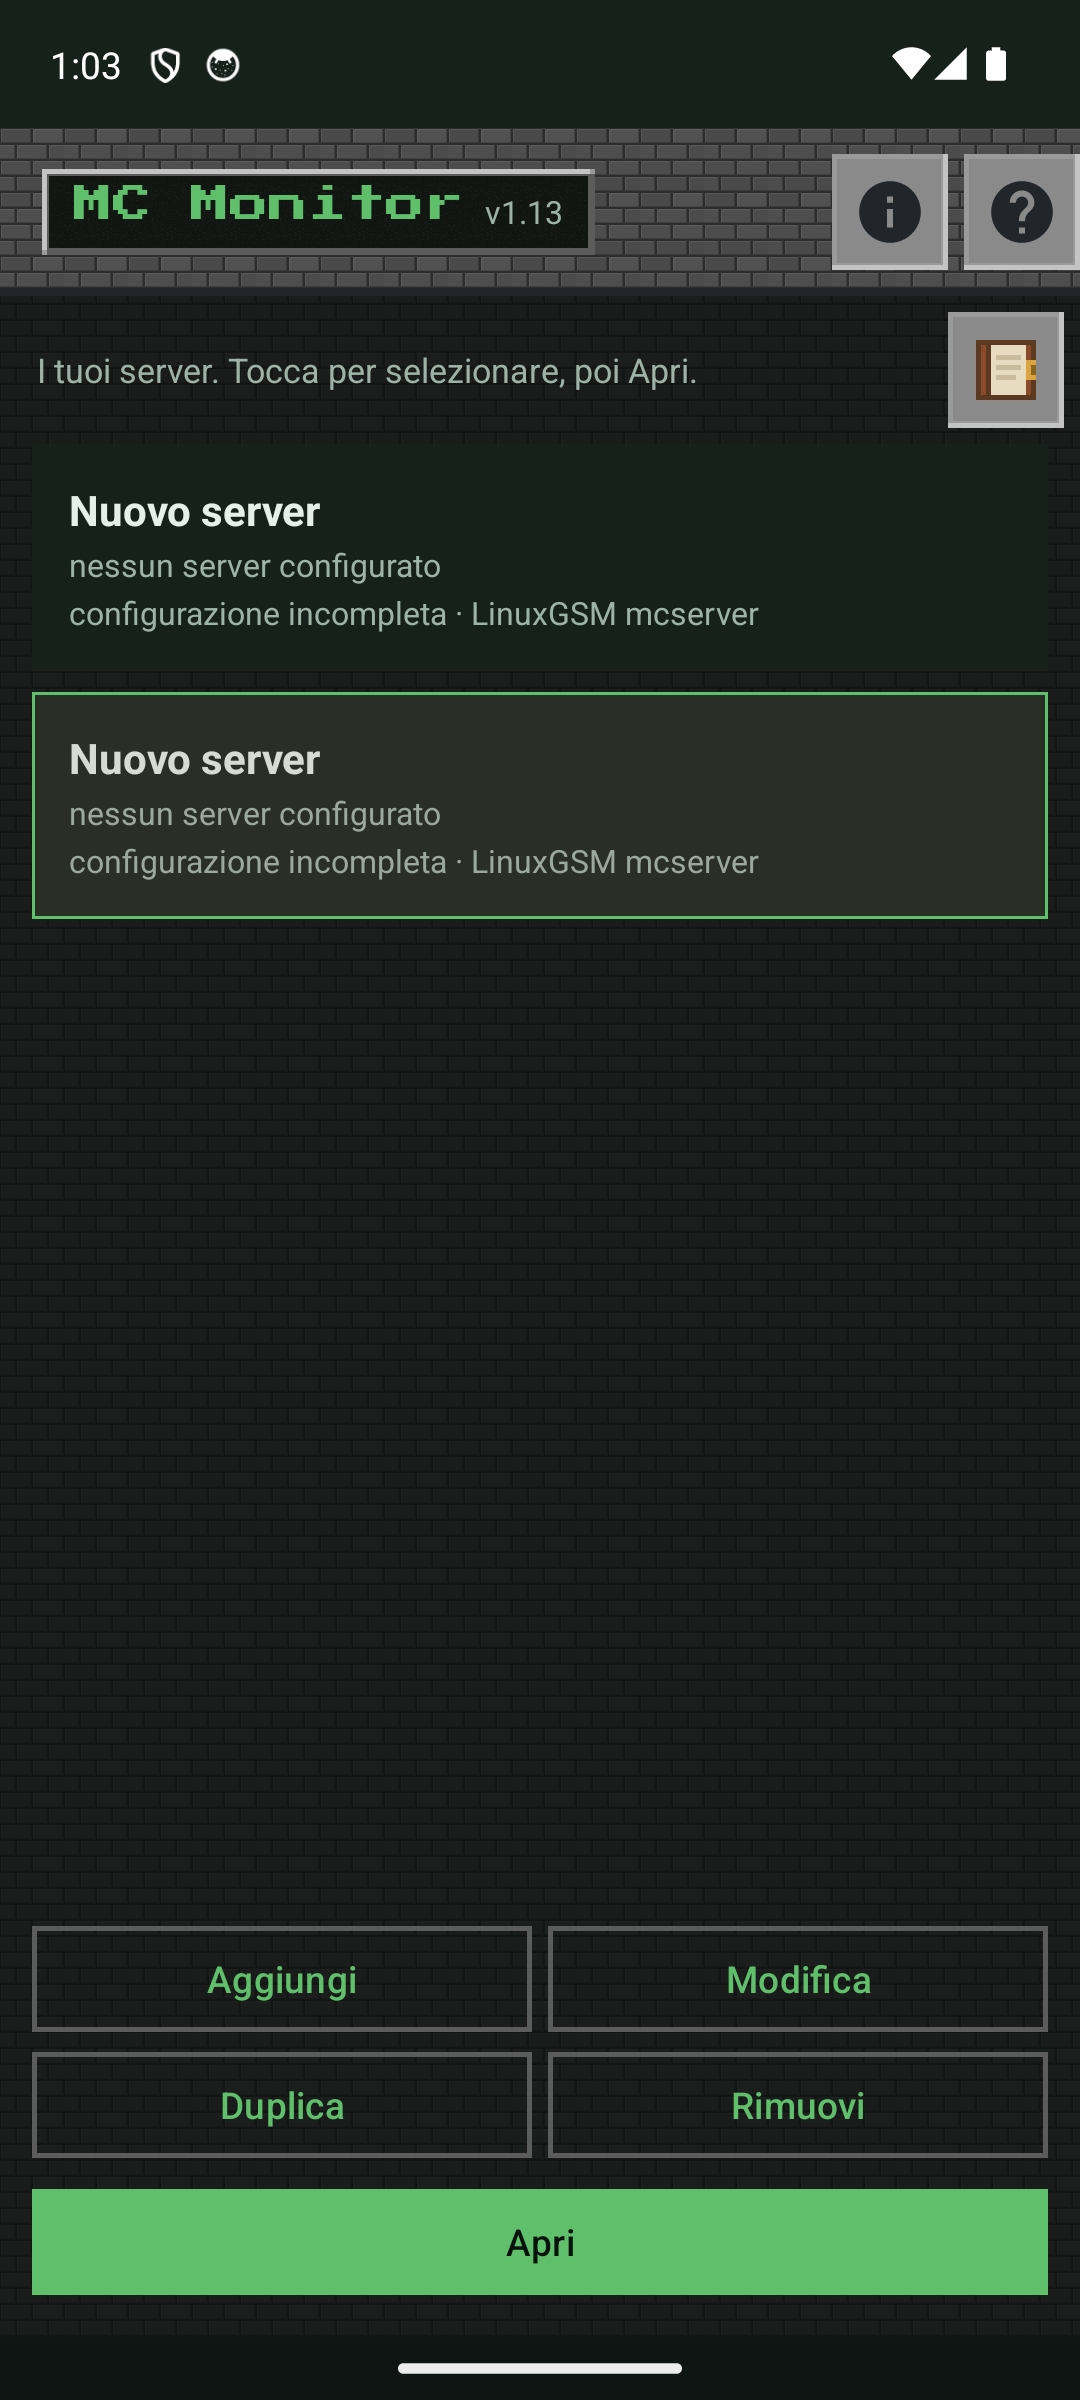
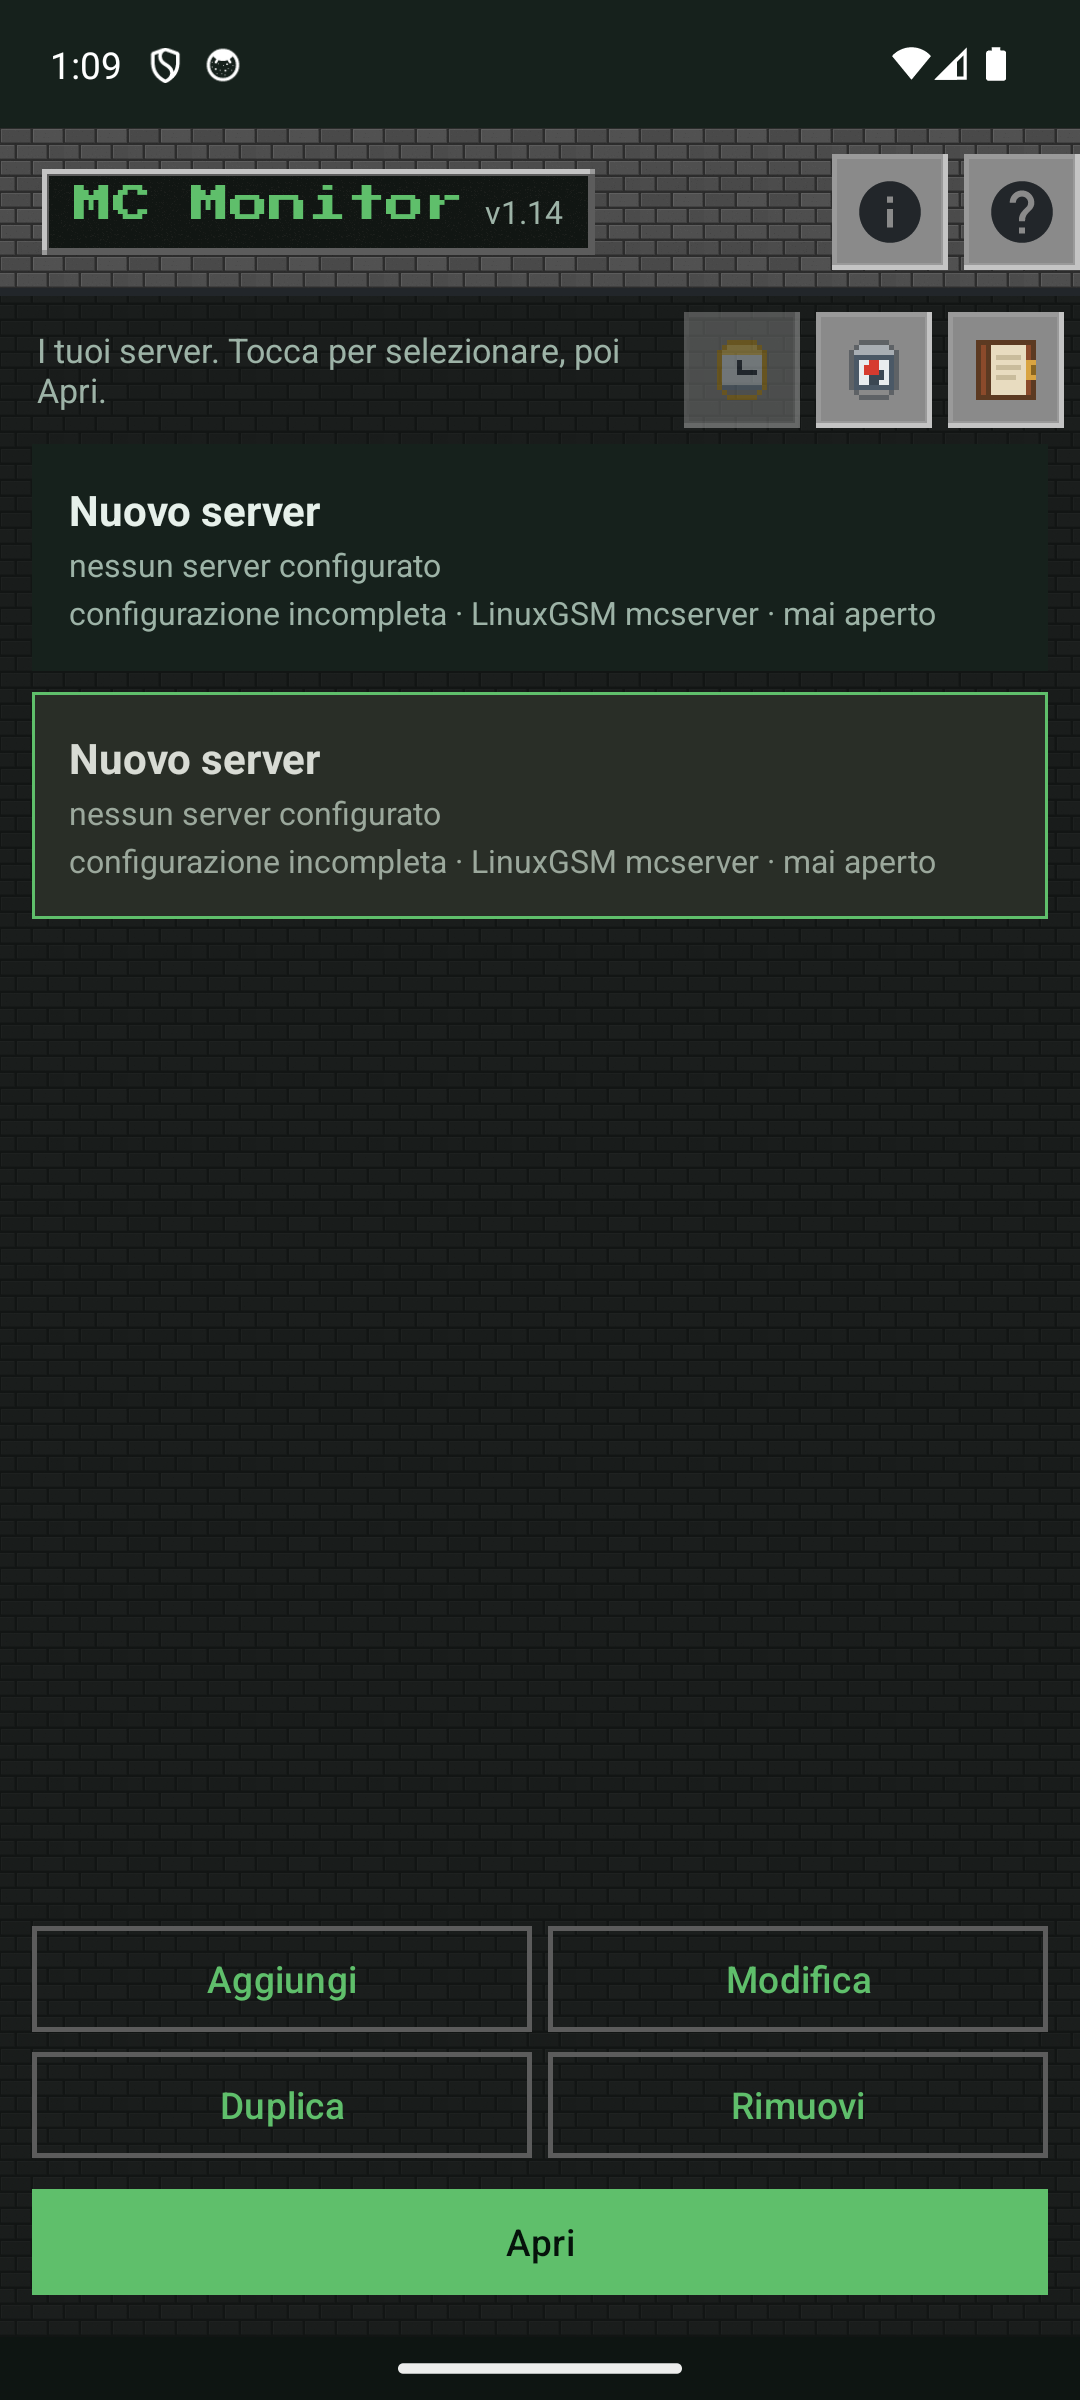
Ordinamento dell elenco server per creazione o ultimo utilizzo
Due icone disegnate a pixel: orologio per la data di creazione, bussola per i
server aperti di recente. La scelta viene ricordata e l icona attiva si
distingue dall altra. Ogni scheda mostra la data su cui si sta ordinando, cosi
l ordine si spiega da solo.

diff --git a/app/src/main/java/com/bellizia/mcmonitor/ui/ServersActivity.kt b/app/src/main/java/com/bellizia/mcmonitor/ui/ServersActivity.kt
@@ -7,6 +7,8 @@ import android.graphics.Typeface
 import android.net.Uri
 import android.os.Bundle
 import android.text.util.Linkify
+import java.text.DateFormat
+import java.util.Date
 import android.widget.ScrollView
 import android.widget.TextView
 import androidx.appcompat.app.AppCompatActivity
@@ -54,6 +56,8 @@ class ServersActivity : AppCompatActivity() {
         selectedId = Prefs.activeId().ifBlank { Prefs.servers().firstOrNull()?.id.orEmpty() }
 
         binding.btnManual.setOnClickListener { openManual() }
+        binding.btnSortCreated.setOnClickListener { sortBy("creazione") }
+        binding.btnSortUsed.setOnClickListener { sortBy("recenti") }
         binding.btnHelp.setOnClickListener { showHelp(Help.SERVERS) }
         binding.btnInfo.setOnClickListener { showAbout() }
         binding.btnAdd.setOnClickListener { addServer() }
@@ -82,8 +86,17 @@ class ServersActivity : AppCompatActivity() {
         render()
     }
 
+    /** Ordina l'elenco e ricorda la scelta. */
+    private fun sortBy(mode: String) {
+        Prefs.sortMode = mode
+        render()
+    }
+
     private fun render() {
-        val servers = Prefs.servers()
+        val servers = sorted(Prefs.servers())
+        // L'icona attiva si distingue: senza, non si capisce quale ordine è in uso.
+        binding.btnSortCreated.alpha = if (Prefs.sortMode == "creazione") 1f else 0.45f
+        binding.btnSortUsed.alpha = if (Prefs.sortMode == "recenti") 1f else 0.45f
         if (servers.none { it.id == selectedId }) selectedId = servers.firstOrNull()?.id.orEmpty()
 
         binding.list.removeAllViews()
@@ -95,6 +108,13 @@ class ServersActivity : AppCompatActivity() {
                 append(if (server.isComplete) "pronto" else "configurazione incompleta")
                 append(" · LinuxGSM ${server.script}")
                 if (server.rconUsable) append(" · RCON ${server.rconPort}")
+                // La data mostrata è quella su cui stai ordinando: così l'ordine si spiega da sé.
+                val date = DateFormat.getDateInstance(DateFormat.SHORT)
+                if (Prefs.sortMode == "recenti") {
+                    append(if (server.lastUsedAt > 0) " · aperto il ${date.format(Date(server.lastUsedAt))}" else " · mai aperto")
+                } else if (server.createdAt > 0) {
+                    append(" · creato il ${date.format(Date(server.createdAt))}")
+                }
             }
             row.card.isChecked = server.id == selectedId
             row.card.strokeWidth = if (server.id == selectedId) 3 else 0
@@ -194,6 +214,20 @@ class ServersActivity : AppCompatActivity() {
             .onFailure { toastShort("Nessuna app per aprire i collegamenti") }
     }
 
+    /**
+     * Per creazione: dal più vecchio, cioè l'ordine in cui li hai fatti.
+     * Per ultimo utilizzo: dal più recente, con i mai aperti in fondo.
+     */
+    private fun sorted(servers: List<ServerConfig>): List<ServerConfig> =
+        when (Prefs.sortMode) {
+            "recenti" -> servers.sortedWith(
+                compareByDescending<ServerConfig> { it.lastUsedAt }.thenBy { it.displayName.lowercase() }
+            )
+            else -> servers.sortedWith(
+                compareBy<ServerConfig> { it.createdAt }.thenBy { it.displayName.lowercase() }
+            )
+        }
+
     private fun addServer() {
         val fresh = Prefs.add(ServerConfig(name = "Nuovo server"))
         selectedId = fresh.id
@@ -223,6 +257,7 @@ class ServersActivity : AppCompatActivity() {
             disconnectAll()
             Prefs.setActive(server.id)
         }
+        Prefs.markUsed(server.id)
         startActivity(
             Intent(this, MainActivity::class.java)
                 .putExtra(MainActivity.EXTRA_OPEN_SETTINGS, editing || !server.isComplete)

diff --git a/app/src/main/java/com/bellizia/mcmonitor/data/ServerConfig.kt b/app/src/main/java/com/bellizia/mcmonitor/data/ServerConfig.kt
@@ -43,6 +43,9 @@ data class ServerConfig(
     val notifyLeave: Boolean = false,
     val notifySeconds: Int = 60,
     val hostKeyFingerprint: String = "",
+    /** Servono a ordinare l'elenco: quando è nato il profilo e quando l'hai aperto. */
+    val createdAt: Long = 0L,
+    val lastUsedAt: Long = 0L,
     /** I requisiti del server si controllano una volta sola, al primo collegamento. */
     val requirementsChecked: Boolean = false
 ) {
@@ -104,6 +107,8 @@ data class ServerConfig(
         put("notifySeconds", notifySeconds)
         put("hostKeyFingerprint", hostKeyFingerprint)
         put("requirementsChecked", requirementsChecked)
+        put("createdAt", createdAt)
+        put("lastUsedAt", lastUsedAt)
     }
 
     companion object {
@@ -135,7 +140,9 @@ data class ServerConfig(
             notifyLeave = o.optBoolean("notifyLeave", false),
             notifySeconds = o.optInt("notifySeconds", 60),
             hostKeyFingerprint = o.optString("hostKeyFingerprint"),
-            requirementsChecked = o.optBoolean("requirementsChecked", false)
+            requirementsChecked = o.optBoolean("requirementsChecked", false),
+            createdAt = o.optLong("createdAt", 0L),
+            lastUsedAt = o.optLong("lastUsedAt", 0L)
         )
     }
 }
@@ -203,6 +210,19 @@ object Prefs {
             sp.edit().putLong("backupLast", value).apply()
         }
 
+    /** Come ordinare l elenco: "creazione" oppure "recenti". */
+    var sortMode: String
+        get() = sp.getString("sortMode", "creazione") ?: "creazione"
+        set(value) {
+            sp.edit().putString("sortMode", value).apply()
+        }
+
+    /** Segna l apertura di un server: serve all ordinamento per ultimo utilizzo. */
+    fun markUsed(id: String) {
+        val server = servers().firstOrNull { it.id == id } ?: return
+        save(server.copy(lastUsedAt = System.currentTimeMillis()))
+    }
+
     var privacyMode: Boolean
         get() = sp.getBoolean("privacyMode", true)
         set(value) {
@@ -239,7 +259,8 @@ object Prefs {
         val fresh = cfg.copy(
             id = UUID.randomUUID().toString(),
             slug = slug,
-            lgsmDir = "~/$slug"
+            lgsmDir = "~/$slug",
+            createdAt = System.currentTimeMillis()
         )
         val all = servers().toMutableList().apply { add(fresh) }
         writeAll(all)

diff --git a/README.md b/README.md
@@ -2,7 +2,7 @@
 
 App Android per gestire un server Minecraft installato con **LinuxGSM**, via **SSH**.
 
-APK pronto all'uso: **`MC-Monitor-1.13.apk`** (firmato, `minSdk 26` / Android 8+, `targetSdk 35`).
+APK pronto all'uso: **`MC-Monitor-1.14.apk`** (firmato, `minSdk 26` / Android 8+, `targetSdk 35`).
 
 **[Manuale d'uso completo](MANUALE.md)** · [Release e APK](https://github.com/bdbais/mc-monitor/releases)
 
